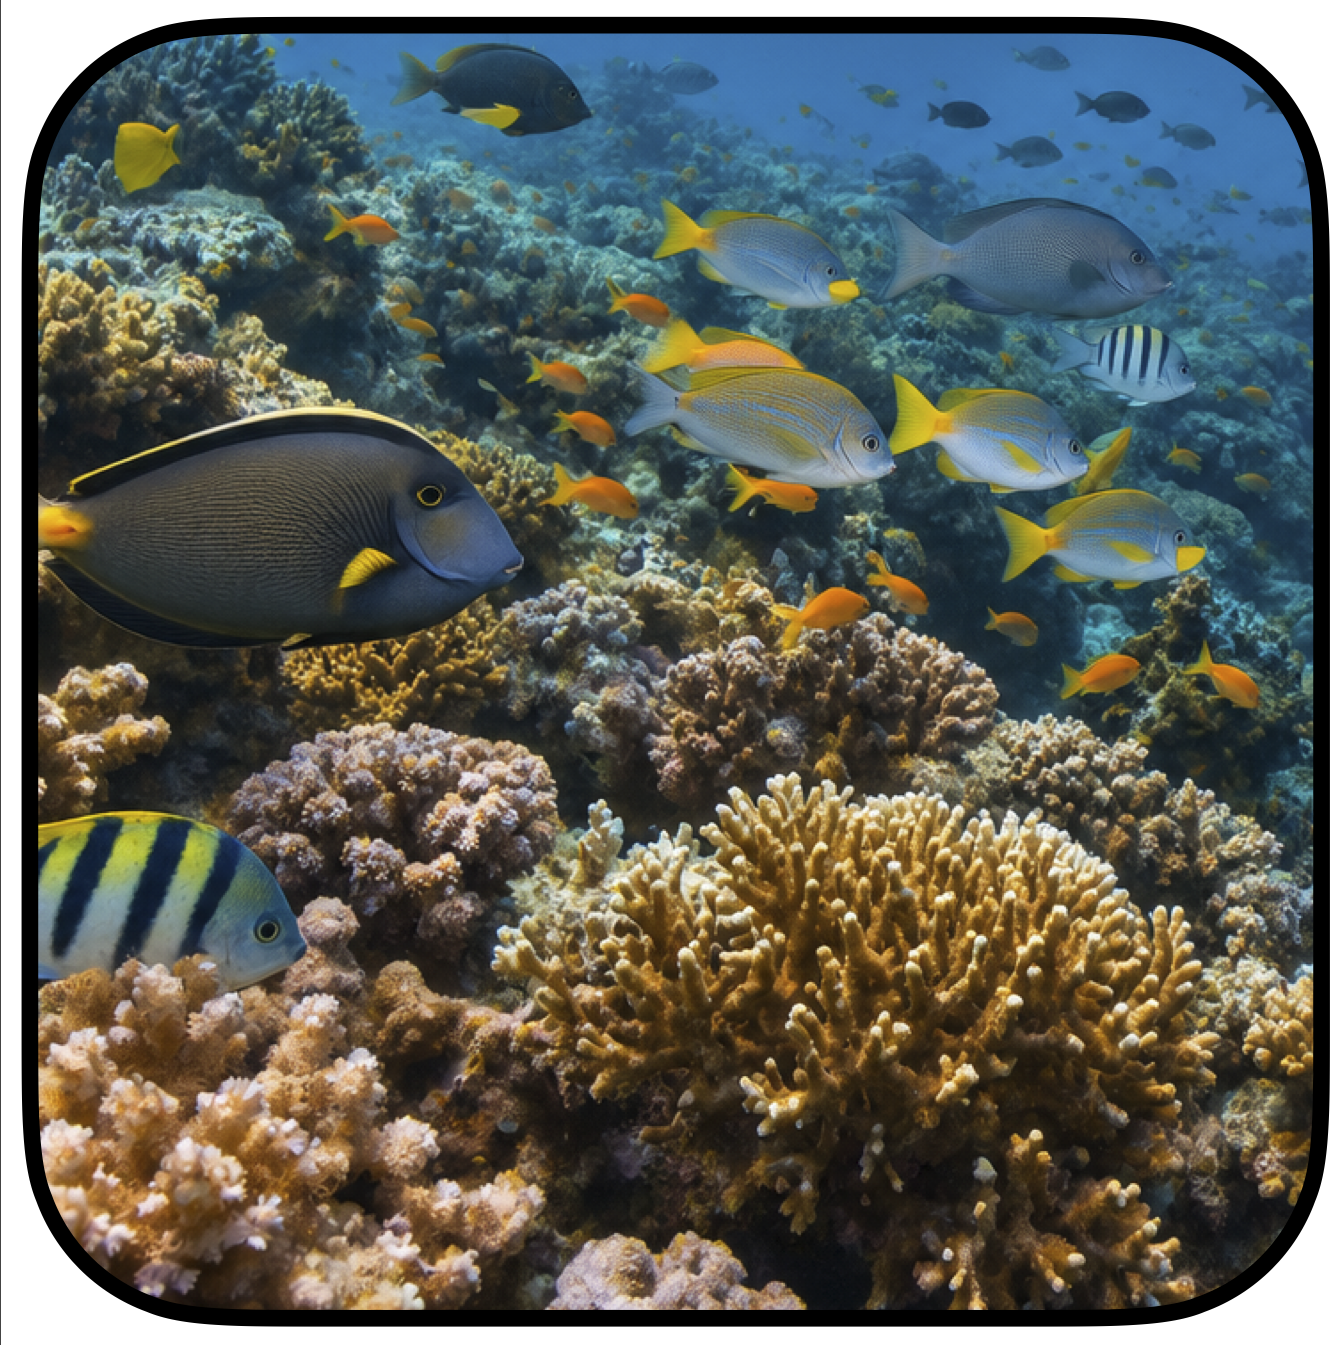
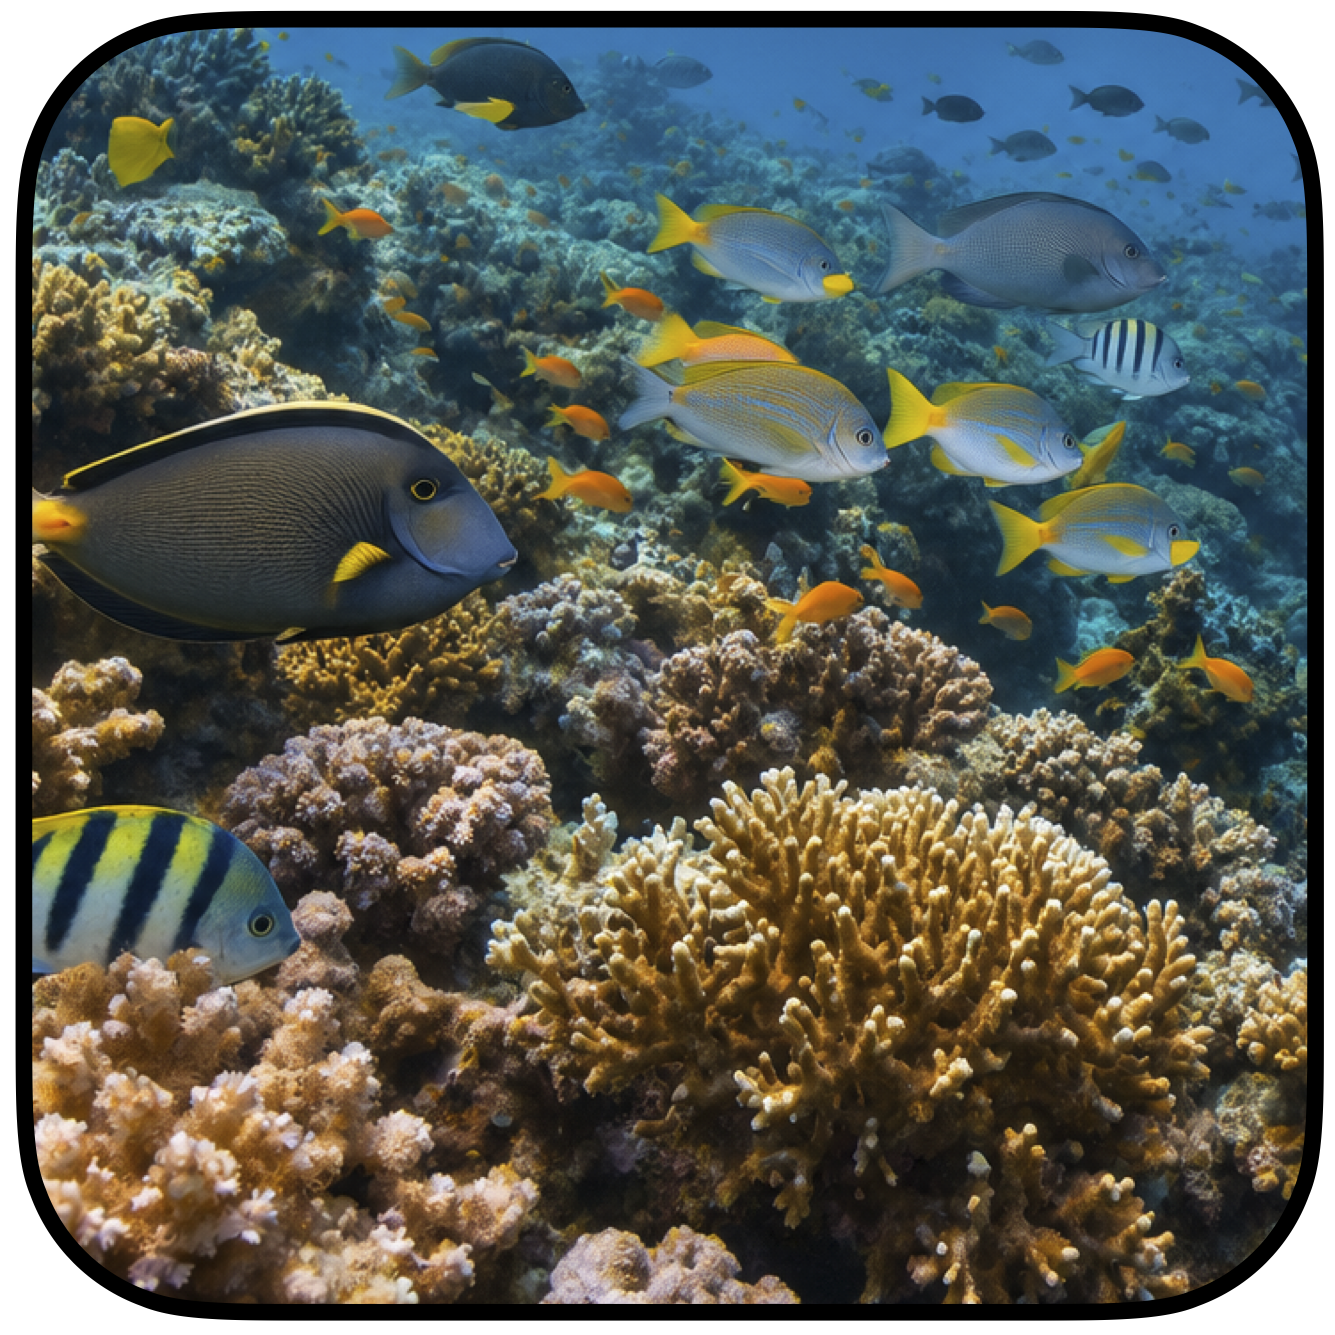
altmetric ID paper 22

diff --git a/index.html b/index.html
@@ -104,7 +104,7 @@ body, html {height: 100%; color: #777;line-height: 1.8;}
 
 <div class="section-title">Scientific peer-reviewed publications</div>
 
-  <div class="paper-entry" data-doi="10.1002/oik.11371" data-pubid="Eotjew0AAAAJ:WF5omc3nYNoC" data-altmetric="196770625" 
+  <div class="paper-entry" data-doi="10.1002/oik.11371" data-pubid="Eotjew0AAAAJ:WF5omc3nYNoC" data-altmetric="204056161" 
        style="overflow: hidden; margin-bottom: 20px; position: relative;">
   <img class="paper-figure" src="Illustrations/22.png" alt="Paper_22_icn">
   <div style="margin-left: 162px;"> <div class="pub-info">
